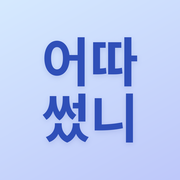
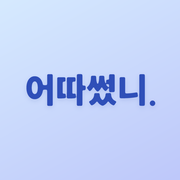
앱 아이콘을 한 줄 워드마크(어따썼니.)로 변경
Claude-Session: https://claude.ai/code/session_011Z4eDyh1oUPzLSeBn4g8tn

Changed region(s): [[0.1389, 0.1944, 0.8056, 0.8056], [0.8333, 0.5556, 0.8611, 0.6111]]

diff --git a/index.html b/index.html
@@ -6,8 +6,8 @@
 <meta name="apple-mobile-web-app-capable" content="yes">
 <meta name="apple-mobile-web-app-title" content="어따썼니">
 <meta name="apple-mobile-web-app-status-bar-style" content="default">
-<link rel="apple-touch-icon" href="apple-touch-icon.png?v=4">
-<link rel="icon" type="image/png" href="icon-512.png?v=4">
+<link rel="apple-touch-icon" href="apple-touch-icon.png?v=5">
+<link rel="icon" type="image/png" href="icon-512.png?v=5">
 <title>어따썼니</title>
 <link rel="preconnect" href="https://fonts.googleapis.com">
 <link href="https://fonts.googleapis.com/css2?family=Archivo:wdth,wght@100..125,400..800&family=Noto+Sans+KR:wght@400;600;800&display=swap" rel="stylesheet">
